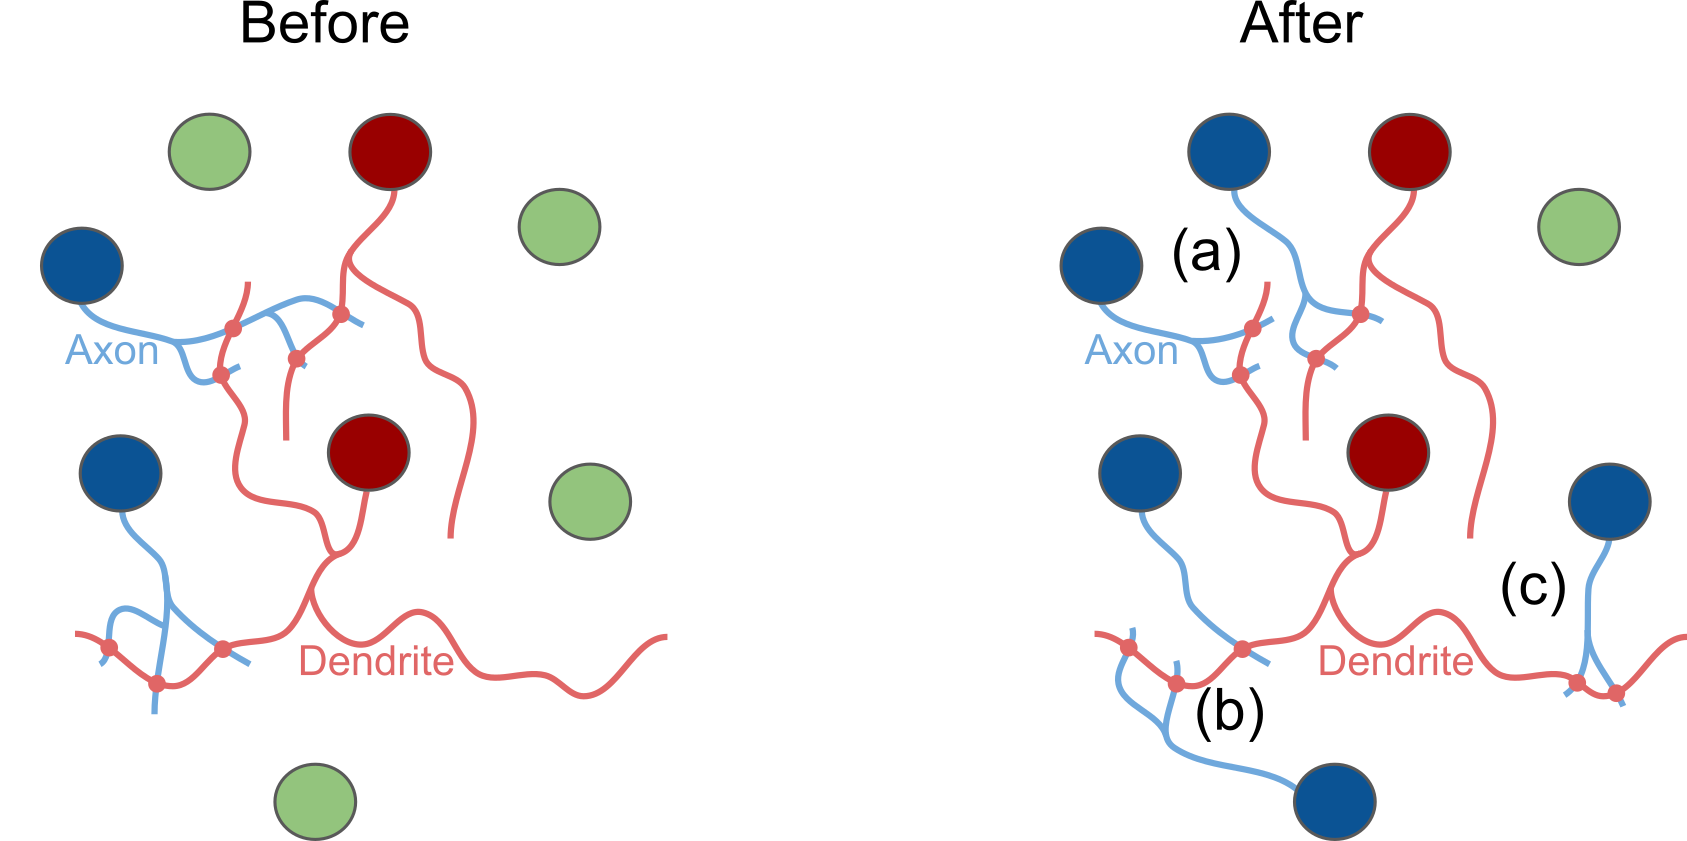
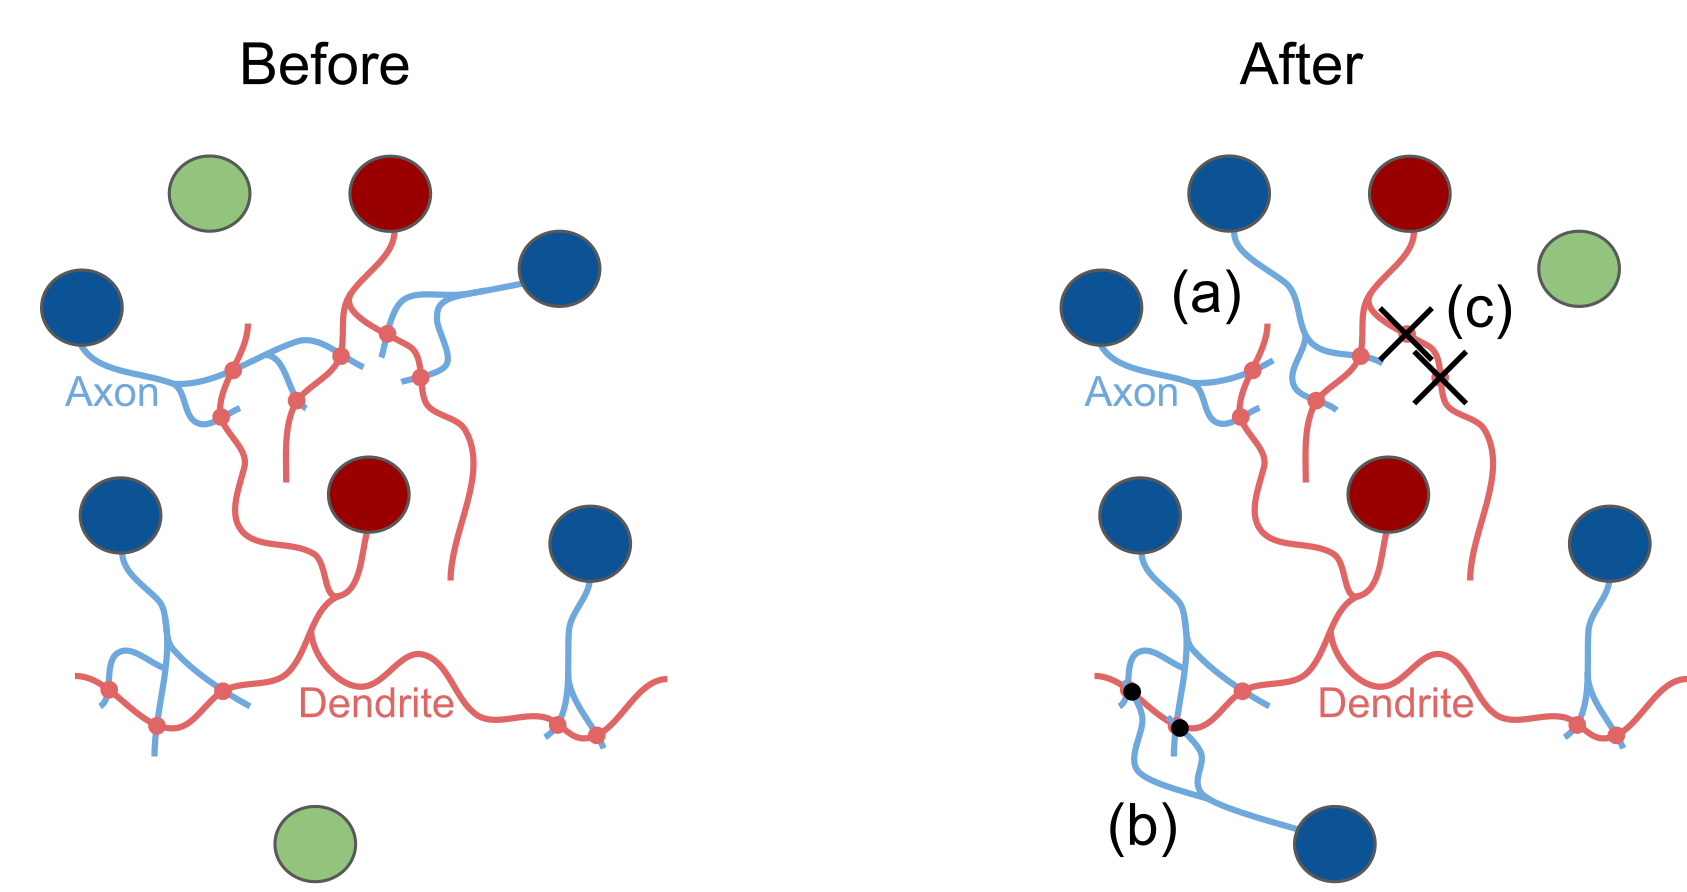
Updated documentation

diff --git a/pipeline/connectome_manipulation/README.md b/pipeline/connectome_manipulation/README.md
@@ -9,5 +9,5 @@
 |                     | Optionally: <br> Re-scaling conductances G* of remaining synapses to keep sum of conductances per connection constant (unless whole connection is removed). | ![Synapse removal, re-scaling conductances](../../images/syn_removal_scaleG.png "Synapse removal, re-scaling conductances") |
 | __[/syn_prop_alteration.py](syn_prop_alteration.py)__ | __Synapse property alteration__ <br> Alters values of certain synapse properties (e.g., conductance, delay, ...) of a certain percentage of synapses between selected groups of neurons (layers, m-types, ...) by setting them to a new absolute value, relative scaling, randomizing, ... <br> Example: Afferent section pos/ID set to 0 (= soma) | ![Synapse property alteration](../../images/syn_prop_alter.png "Synapse property alteration") |
 | __[/syn_addition.py](syn_addition.py)__ | __Synapse addition__ <br> Adds a certain number of synapses (e.g., total percentage, percentage per connection, ...) to existing connections between selected groups of neurons (layers, m-types, ...) by (i) duplicating existing synapses, (ii) deriving from existing synapses (duplicating and randomizing certain properties based on a model), or (iii) loading from an external connectome. <br> Optionally: Re-scaling gSyns (conductances) to keep sum of gSyns per connection constant. | ![Synapse addition](../../images/syn_add.png "Synapse addition") |
-| __[/conn_rewiring.py](conn_rewiring.py)__ | __Connection rewiring__ <br> Rewiring of connections between pairs of neurons based on a given connection probability model, re-using existing synapses (a) preserving #synapses/connections or (b) not preserving #synapses/connections, or (c) adding new synapses, if needed [not yet implemented]. | ![Connection rewiring](../../images/conn_rewire.png "Connection rewiring") |
+| __[/conn_rewiring.py](conn_rewiring.py)__ | __Connection rewiring__ <br> Rewiring of connections between pairs of neurons based on a given connection probability model and re-using existing synapses, (a) preserving #synapses/connections, (b) duplicating existing synapses to form new connections (and parametrizing them by randomly sampling synaptic property values from other existing synapses), and (c) removing unused synapses. <br> Optionally: Preserving in-degrees and #synapses/connections, without adding or deleting synapses. | ![Connection rewiring](../../images/conn_rewire.png "Connection rewiring") |
 | | Algorithm: For each post-synaptic target neuron... <br> <br> ![Model-based connection rewiring](../../images/conn_rewire_model.png "Model-based connection rewiring") | |
